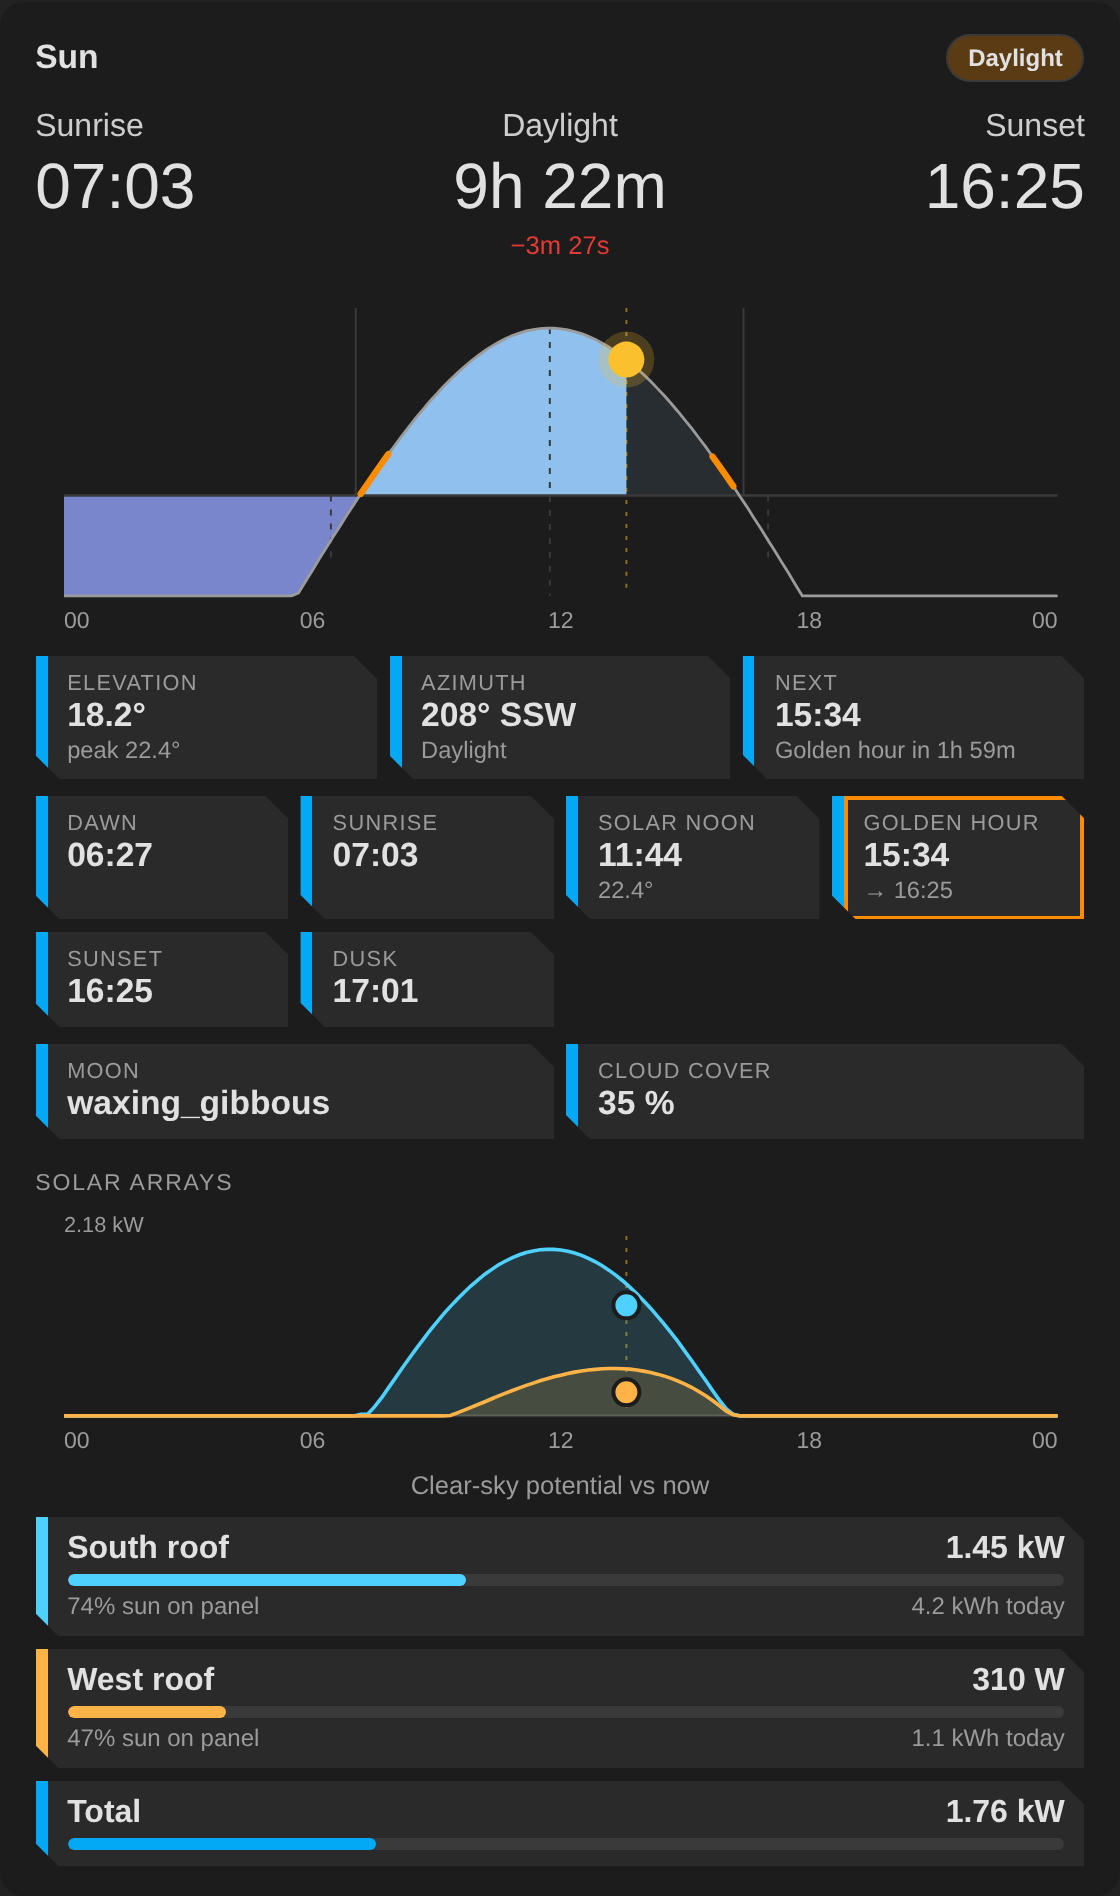
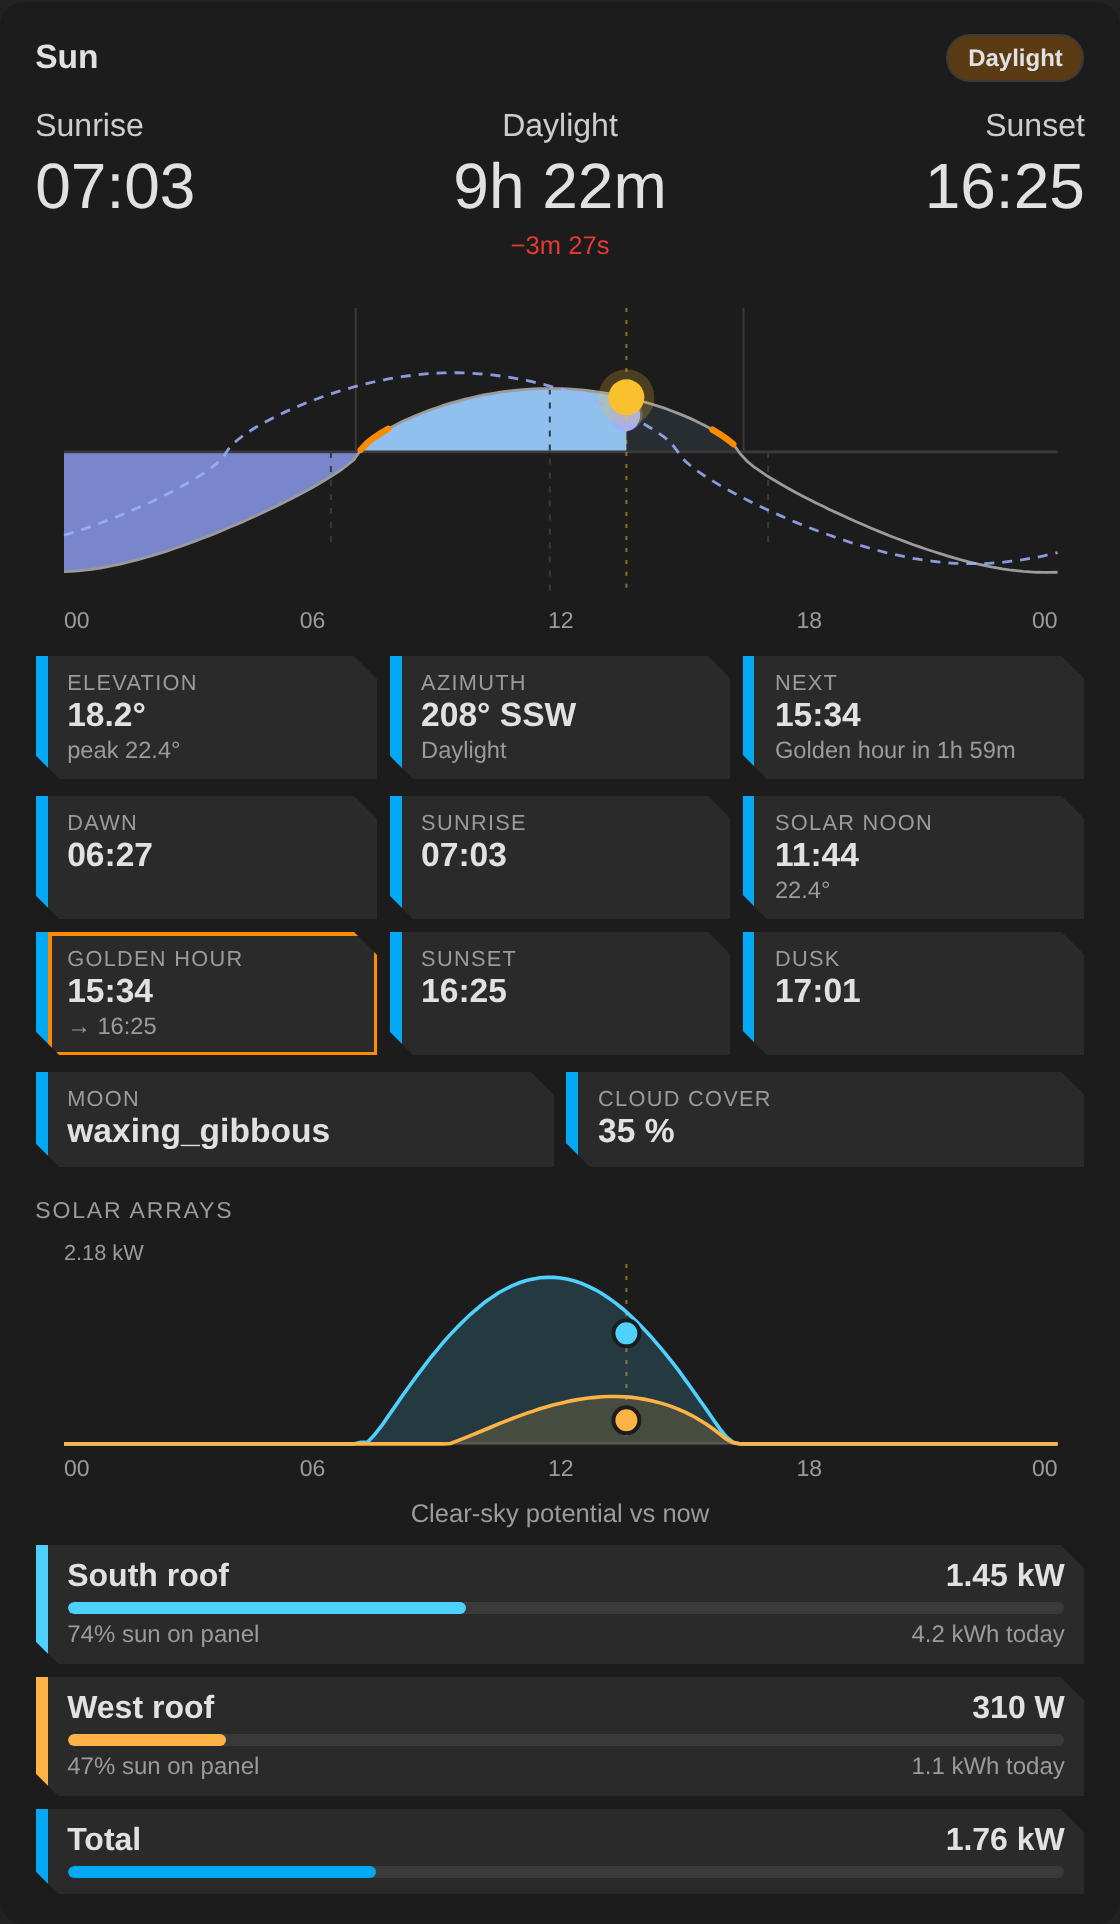
Sun card 1.2.0: full day/night curve scaled by elevation, moon track
Claude-Session: https://claude.ai/code/session_019YNN5nNWZU9jtgXBTHgiKp

diff --git a/dist/sun-day-card.js b/dist/sun-day-card.js
@@ -1,5 +1,5 @@
 /**
- * sun-day-card.js  v1.1.0
+ * sun-day-card.js  v1.2.0
  *
  * A Lovelace card showing the sun's day as an infographic: sunrise / sunset, dawn / dusk, solar noon,
  * an elevation curve with the sun's live position, and (advanced variant) daylight length with the
@@ -50,12 +50,13 @@
  *   chart_height: 220         # chart height in px (default: a width-based ratio)
  *   arrays_chart_height: 160  # same for the solar arrays chart (advanced)
  *   sun_size: 14              # sun dot radius in px
+ *   moon: true                # dashed moon track and a phase-shaded moon (false hides it)
  *   fit: true                 # fill the card's grid cell and stretch the chart into the spare height.
  *                             #   Resize the card in the sections layout editor (or set grid_options)
  *   show: { header: true, times: true, events: true, chart: true }   # hide or force pieces (all variants)
  *   colors:                   # override any colour for this card
  *     day: "#ffd54f"          #   background, text, text_secondary, surface, line, day, night, curve,
- *     night: "#283593"        #   sun, gold, accent
+ *     night: "#283593"        #   sun, moon, gold, accent
  *     sun: "#ff7043"
  *   The chart is redrawn at the card's real pixel width, so it stays sharp at any size.
  *   Themes and card-mod can set the same colours as CSS variables: --sdc-day, --sdc-night, --sdc-sun,
@@ -66,7 +67,7 @@
  * what the array is doing right now.
  */
 (() => {
-  const VERSION = '1.1.0';
+  const VERSION = '1.2.0';
   if (customElements.get('sun-day-card')) return;
 
   const D2R = Math.PI / 180;
@@ -170,6 +171,52 @@
     return { el, az };
   }
 
+
+  /* ---------- moon maths (Meeus ch. 47, main terms: about 0.3 degrees) ---------- */
+
+  function moonPos(ms, lat, lon) {
+    const jd = ms / 86400000 + 2440587.5;
+    const T = (jd - 2451545) / 36525;
+    const Lp = mod(218.3164477 + 481267.88123421 * T, 360);
+    const Dd = mod(297.8501921 + 445267.1114034 * T, 360);
+    const Ms = mod(357.5291092 + 35999.0502909 * T, 360);
+    const Mm = mod(134.9633964 + 477198.8675055 * T, 360);
+    const F = mod(93.272095 + 483202.0175233 * T, 360);
+    const d = (x) => x * D2R;
+    const sn = (a, b, c, e) => Math.sin(d(a * Dd + b * Ms + c * Mm + e * F));
+    const cs = (a, b, c, e) => Math.cos(d(a * Dd + b * Ms + c * Mm + e * F));
+    const sl = 6288774 * sn(0, 0, 1, 0) + 1274027 * sn(2, 0, -1, 0) + 658314 * sn(2, 0, 0, 0) +
+      213618 * sn(0, 0, 2, 0) - 185116 * sn(0, 1, 0, 0) - 114332 * sn(0, 0, 0, 2) +
+      58793 * sn(2, 0, -2, 0) + 57066 * sn(2, -1, -1, 0) + 53322 * sn(2, 0, 1, 0) + 45758 * sn(2, -1, 0, 0) -
+      40923 * sn(0, 1, -1, 0) - 34720 * sn(1, 0, 0, 0) - 30383 * sn(0, 1, 1, 0) + 15327 * sn(2, 0, 0, -2) -
+      12528 * sn(0, 0, 1, 2) + 10980 * sn(0, 0, 1, -2);
+    const sb = 5128122 * sn(0, 0, 0, 1) + 280602 * sn(0, 0, 1, 1) + 277693 * sn(0, 0, 1, -1) +
+      173237 * sn(2, 0, 0, -1) + 55413 * sn(2, 0, -1, 1) + 46271 * sn(2, 0, -1, -1) + 32573 * sn(2, 0, 0, 1) +
+      17198 * sn(0, 0, 2, 1) + 9266 * sn(2, 0, 1, -1) + 8822 * sn(0, 0, 2, -1);
+    const sr = -20905355 * cs(0, 0, 1, 0) - 3699111 * cs(2, 0, -1, 0) - 2955968 * cs(2, 0, 0, 0) - 569925 * cs(0, 0, 2, 0);
+    const lam = d(Lp + sl / 1e6);
+    const bet = d(sb / 1e6);
+    const dist = 385000.56 + sr / 1000;
+    const eps = d(23.439291 - 0.0130042 * T);
+    const ra = Math.atan2(Math.sin(lam) * Math.cos(eps) - Math.tan(bet) * Math.sin(eps), Math.cos(lam));
+    const dec = Math.asin(clamp(Math.sin(bet) * Math.cos(eps) + Math.cos(bet) * Math.sin(eps) * Math.sin(lam), -1, 1));
+    const gmst = mod(280.46061837 + 360.98564736629 * (jd - 2451545), 360);
+    const H = d(gmst + lon) - ra;
+    const la = lat * D2R;
+    const alt = Math.asin(clamp(Math.sin(la) * Math.sin(dec) + Math.cos(la) * Math.cos(dec) * Math.cos(H), -1, 1)) * R2D;
+    const par = Math.asin(6378.14 / dist) * R2D;
+    // phase: illuminated fraction from the elongation, waxing when the moon is east of the sun
+    const sunLon = mod(280.46646 + 36000.76983 * T + 1.9146 * Math.sin(d(Ms)), 360);
+    const elong = mod(lam * R2D - sunLon, 360);
+    return { el: alt - par * Math.cos(alt * D2R) + 0.0, k: (1 - Math.cos(d(elong))) / 2, waxing: elong < 180 };
+  }
+
+  function scanMoon(startMs, lat, lon) {
+    const out = new Float32Array(145);
+    for (let i = 0; i <= 144; i++) out[i] = moonPos(startMs + i * 600000, lat, lon).el;
+    return out;
+  }
+
   function events(el) {
     const cross = (th, dir) => {
       for (let i = 1; i <= 1440; i++) {
@@ -197,7 +244,7 @@
 
   const BASE_CSS = `
     :host { display:block; }
-    ha-card { overflow:hidden; background:var(--sc-bg); color:var(--sc-fg); }
+    ha-card { overflow:hidden; background:var(--sc-bg); color:var(--sc-fg); --sc-moon:var(--sdc-moon, #9fb0ff); }
     .sc { font-size:calc(1rem * var(--sc-fs, 1)); padding:1em 1.1em .9em; }
     .hd { display:flex; align-items:center; gap:.75em; margin:-1em -1.1em .9em; padding:.9em 1.1em; }
     ha-card.fit { height:100%; }
@@ -257,6 +304,10 @@
     .s-sun { fill:var(--sc-sun); }
     .s-sun.dim { opacity:.55; }
     .s-halo { fill:var(--sc-sun); opacity:.22; }
+    .s-mo { fill:none; stroke:var(--sc-moon); stroke-width:1.4; stroke-dasharray:5 4; opacity:.85; }
+    .s-moon-bg { fill:var(--sc-moon); opacity:.28; }
+    .s-moon-lit { fill:var(--sc-moon); }
+    .mdim { opacity:.6; }
     .s-ax { fill:var(--sc-dim); font-size:.72em; }
     .s-wl { fill:var(--sc-dim); font-size:.68em; }
     @media (max-width:420px) { .big { font-size:1.6em; } }
@@ -386,7 +437,7 @@
         return v === undefined || v === null || v === '' || !Number.isFinite(n) ? null : clamp(n, lo, hi);
       };
       const COLOR_VARS = { background: 'bg', text: 'fg', text_secondary: 'dim', surface: 'surface', line: 'line',
-        day: 'day', night: 'night', curve: 'curve', sun: 'sun', gold: 'gold', accent: 'accent' };
+        day: 'day', night: 'night', curve: 'curve', sun: 'sun', moon: 'moon', gold: 'gold', accent: 'accent' };
       const fontScale = numOpt(config.font_scale, 0.5, 3) || 1;
       let vars = `--sc-fs:${fontScale};`;
       if (config.colors !== undefined) {
@@ -417,6 +468,7 @@
         chart_height: numOpt(config.chart_height, 80, 800),
         arrays_chart_height: numOpt(config.arrays_chart_height, 80, 600),
         sun_size: numOpt(config.sun_size, 4, 40),
+        moon: config.moon !== false,
         fit: config.fit === true,
         show,
       };
@@ -603,7 +655,7 @@
         const ev = events(today.el);
         const yev = events(yest.el);
         this._day = {
-          key, el: today.el, az: today.az, ev,
+          key, el: today.el, az: today.az, ev, moon: scanMoon(start, lat, lon),
           len: ev.sunrise !== null && ev.sunset !== null ? ev.sunset - ev.sunrise : null,
           ylen: yev.sunrise !== null && yev.sunset !== null ? yev.sunset - yev.sunrise : null,
         };
@@ -613,6 +665,7 @@
       const comp = solarPos(now.getTime(), lat, lon);
       const attrEl = st ? parseFloat(st.attributes && st.attributes.elevation) : NaN;
       const attrAz = st ? parseFloat(st.attributes && st.attributes.azimuth) : NaN;
+      const moonNow = moonPos(now.getTime(), lat, lon);
       const elev = Number.isFinite(attrEl) ? attrEl : comp.el;
       const az = Number.isFinite(attrAz) ? attrAz : comp.az;
 
@@ -624,18 +677,18 @@
       const tiles = cfg.tiles.map((t) => ({ t, st: h.states[t.entity] }));
 
       const sig = [
-        Math.floor(tp.min), elev.toFixed(1), az.toFixed(0), key, this._h12(), this._cw, this._chh,
+        Math.floor(tp.min), elev.toFixed(1), moonNow.el.toFixed(1), az.toFixed(0), key, this._h12(), this._cw, this._chh,
         arrs.map((x) => `${x.w}|${x.energy}`).join(','),
         tiles.map((x) => (x.st ? x.st.state : '')).join(','),
       ].join('#');
       if (sig === this._sig) return;
       this._sig = sig;
-      this._root.innerHTML = this._render({ cfg, day, nowMin: tp.min, elev, az, arrs, tiles });
+      this._root.innerHTML = this._render({ cfg, day, nowMin: tp.min, elev, az, arrs, tiles, moonNow });
     }
 
     /* --- rendering --- */
 
-    _chart(day, nowMin, elev, adv) {
+    _chart(day, nowMin, elev, adv, moonNow) {
       const { W, H } = this._dims(adv);
       const fs = Math.max(1, this._config.font_scale);
       const r = this._sunR(W, adv);
@@ -643,10 +696,12 @@
       const top = Math.max(r + 6, Math.round((adv ? 18 : 24) * fs));
       const bot = H - Math.round((adv ? 22 : 8) * (adv ? fs : 1));
       const X = (m) => px + (m / 1440) * (W - 2 * px);
-      const peak = Math.max(day.ev.peak, 3);
-      const yMax = peak * 1.12;
-      const yMin = Math.max(day.ev.min, -Math.max(12, peak * 0.6));
-      const Y = (e) => top + ((yMax - clamp(e, yMin, yMax)) / (yMax - yMin)) * (bot - top);
+      // One fixed, symmetric scale (the horizon is the middle line) so the curve is the whole day and night,
+      // and a higher sun or moon always draws taller. A gentle power curve stops a low winter sun being flat.
+      const R = Math.min(90, Math.max(70, day.ev.peak * 1.1, -day.ev.min * 1.1));
+      const mid = (top + bot) / 2;
+      const half = (bot - top) / 2;
+      const Y = (e) => mid - Math.sign(e) * Math.pow(Math.min(Math.abs(e) / R, 1), 0.72) * half;
       const y0 = Y(0);
       const f1 = (n) => n.toFixed(1);
       const pts = [];
@@ -675,6 +730,22 @@
         });
         mk.push(`<line class="s-mk d" x1="${f1(X(ev.noon))}" x2="${f1(X(ev.noon))}" y1="${f1(Y(ev.peak))}" y2="${bot}"/>`);
       }
+      let moonSvg = '';
+      if (this._config.moon !== false && day.moon) {
+        const X2 = (i) => X(i * 10);
+        const mline = 'M' + Array.from(day.moon, (e, i) => `${f1(X2(i))},${f1(Y(e))}`).join('L');
+        const mx = nowX;
+        const my = Y(moonNow.el);
+        const mr = Math.max(6, r * 0.9);
+        const k = moonNow.k;
+        const rx = Math.abs(1 - 2 * k) * mr;
+        const sweepA = moonNow.waxing ? 1 : 0;
+        const sweepB = (k < 0.5) === moonNow.waxing ? 1 : 0;
+        const lit = `M${f1(mx)},${f1(my - mr)}A${f1(mr)},${f1(mr)} 0 0 ${sweepA} ${f1(mx)},${f1(my + mr)}A${f1(rx)},${f1(mr)} 0 0 ${sweepB} ${f1(mx)},${f1(my - mr)}Z`;
+        moonSvg = `<path class="s-mo" d="${mline}"/>
+          <g class="${moonNow.el < 0 ? 'mdim' : ''}"><circle class="s-moon-bg" cx="${f1(mx)}" cy="${f1(my)}" r="${f1(mr)}"/>
+          <path class="s-moon-lit" d="${lit}"/></g>`;
+      }
       const dim = elev < -0.833 ? ' dim' : '';
       let axis = '';
       if (adv) {
@@ -694,6 +765,7 @@
           ${mk.join('')}
           <line class="s-hz" x1="${px}" x2="${W - px}" y1="${f1(y0)}" y2="${f1(y0)}"/>
           <path class="s-crv" d="${line}"/>
+          ${moonSvg}
           ${gold ? `<path class="s-gold" d="${gold}"/>` : ''}
           ${adv ? `<line class="s-now" x1="${f1(nowX)}" x2="${f1(nowX)}" y1="${top}" y2="${bot}"/>` : ''}
           <circle class="s-halo" cx="${f1(nowX)}" cy="${f1(Y(elev))}" r="${r + 5}"/>
@@ -742,7 +814,7 @@
         </svg>`;
     }
 
-    _render({ cfg, day, nowMin, elev, az, arrs, tiles }) {
+    _render({ cfg, day, nowMin, elev, az, arrs, tiles, moonNow }) {
       const L = cfg.labels;
       const h12 = this._h12();
       const hm = (m) => this._hm(m, h12);
@@ -780,7 +852,7 @@
             <div><div class="lbl">${esc(L.sunrise)}</div><div class="big">${hm(ev.sunrise)}</div></div>
             <div class="r"><div class="lbl">${esc(L.sunset)}</div><div class="big">${hm(ev.sunset)}</div></div>
           </div>
-          <div class="chw main"${sunEntity}>${this._chart(day, nowMin, elev, false)}</div>
+          <div class="chw main"${sunEntity}>${this._chart(day, nowMin, elev, false, moonNow)}</div>
           <div class="bottom">
             <div><div class="lbl">${esc(L.dawn)}</div><div class="v">${hm(ev.dawn)}</div></div>
             <div><div class="lbl">${esc(L.noon)}</div><div class="v">${hm(ev.noon)}</div></div>
@@ -803,7 +875,7 @@
           <div class="c"><div class="lbl">${esc(L.daylight)}</div><div class="big">${this._dur(day.len)}</div>${delta}</div>
           <div class="r"><div class="lbl">${esc(L.sunset)}</div><div class="big">${hm(ev.sunset)}</div></div>
         </div>
-        <div class="chw main"${sunEntity}>${this._chart(day, nowMin, elev, true)}</div>`;
+        <div class="chw main"${sunEntity}>${this._chart(day, nowMin, elev, true, moonNow)}</div>`;
 
       if (cfg.sections.stats) {
         const dir = COMPASS[Math.round(az / 22.5) % 16];

diff --git a/README.md b/README.md
@@ -66,7 +66,7 @@ arrays:
     color: "#f2a43a"
 ```
 
-Everything is computed in the browser from your Home Assistant location and time zone. If `sun.sun` exists, its elevation and azimuth drive the live sun marker.
+The curve is the whole day and night on one scale, so a higher sun or moon draws taller. Everything is computed in the browser from your Home Assistant location and time zone. If `sun.sun` exists, its elevation and azimuth drive the live sun marker.
 
 ### Layout and styling options
 
@@ -78,10 +78,11 @@ Everything is computed in the browser from your Home Assistant location and time
 | `chart_height` | Chart height in px, 80 to 800 |
 | `arrays_chart_height` | Height of the arrays chart (advanced) |
 | `sun_size` | Sun marker radius in px, 4 to 40 |
+| `moon` | `false` hides the dashed moon track and phase-shaded moon (on by default) |
 | `fit` | `true` stretches the chart to fill the card's grid cell |
 | `show` | `header`, `times`, `events`, `chart`: set any to `false` to hide it |
 | `sections` | `stats`, `timeline`, `arrays`, `tiles` (advanced) |
-| `colors` | `background`, `text`, `text_secondary`, `surface`, `line`, `day`, `night`, `curve`, `sun`, `gold`, `accent` |
+| `colors` | `background`, `text`, `text_secondary`, `surface`, `line`, `day`, `night`, `curve`, `sun`, `moon`, `gold`, `accent` |
 | `time_format` | `12` or `24` |
 | `latitude`, `longitude`, `time_zone` | Override the Home Assistant location |
 

diff --git a/CHANGELOG.md b/CHANGELOG.md
@@ -1,5 +1,13 @@
 # Changelog
 
+## 1.1.0
+
+- `sun-day-card.js` 1.2.0: the chart now draws the whole day and night as one curve on a fixed, symmetric
+  scale (the horizon is the middle line), so a higher sun is always taller and a low winter sun is no longer
+  a flat line with a bump.
+- New moon track: dashed moon elevation curve with a phase-shaded moon at the current time (`moon: false`
+  hides it, `colors.moon` / `--sdc-moon` recolour it). Computed in the browser, no entity needed.
+
 ## 1.0.0
 
 First bundled release.
